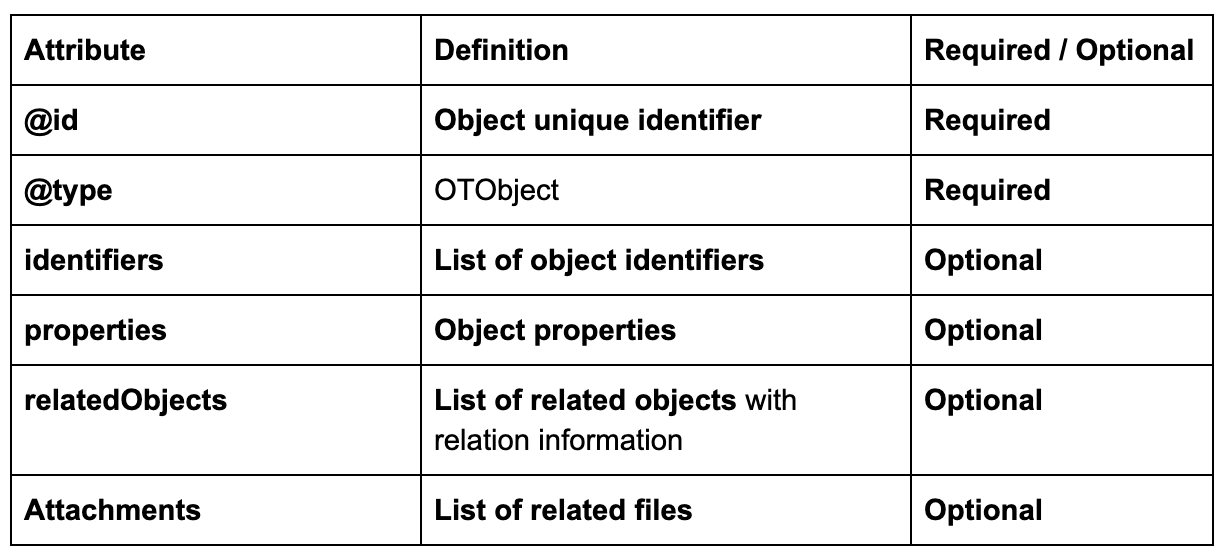
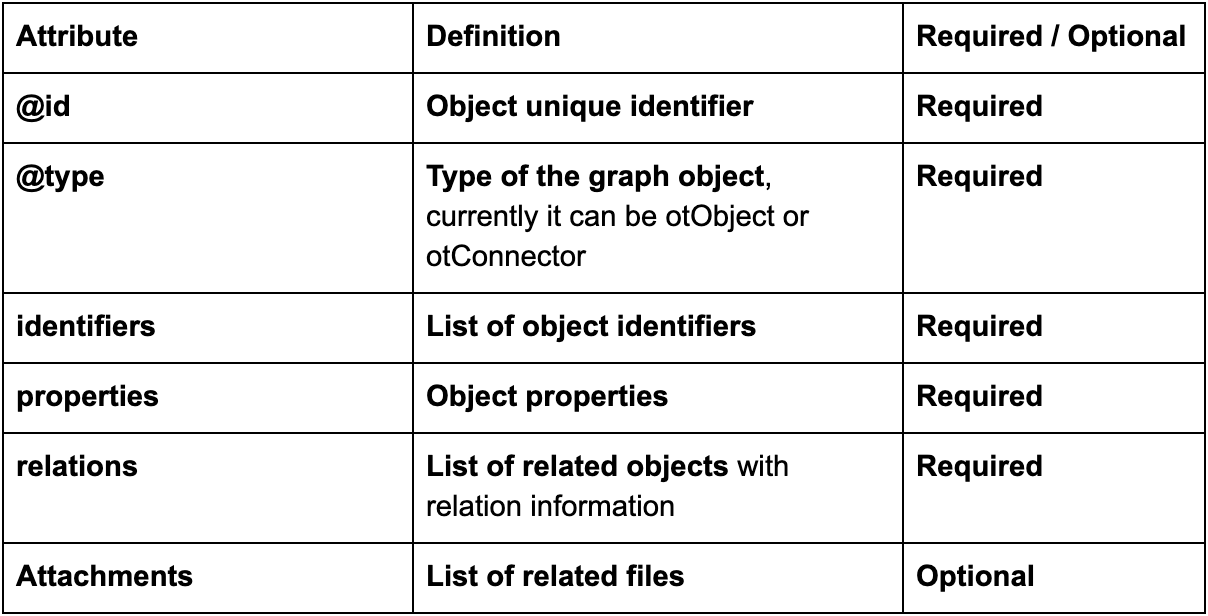
Fix errors in ot-json documentation and point api to new version

Changed region(s): [[0.0, 0.0, 1.0, 1.0]]

diff --git a/source/Data-Structure/ot-json.rst b/source/Data-Structure/ot-json.rst
@@ -186,7 +186,7 @@ Object structure
 -----------------
 
 OT-JSON dataset objects represent entities which can be interconnected with relations in a graph-like form. Every OT-JSON dataset object is required to have it’s **unique identifier** (@id),
-**type** (@type) and **signature**. Other, optional, sections include identifiers, properties, related objects, attachments.
+**type** (@type) and **signature**. Other required sections include **identifiers**, **properties** and **relations**, while optional sections include attachments.
 
 
 Attribute definitions
@@ -205,7 +205,7 @@ Attribute definitions
 
         "properties": {"...": "..."},
 
-        "relatedObjects": ["..."],
+        "relations": ["..."],
 
         "attachments": ["..."],
 
@@ -220,20 +220,20 @@ Object identifiers section
 ~~~~~~~~~~~~~~~~~~~~~~~~~~~
 
 Object identifiers section is a list of objects that represent identifier values for certain object.
-Identifier objects contain information about **identifier type**, **identifier value**, and **validation schema** that is used for validating identity.
+Identifier objects contain information about identifier **type**, identifier **value**, and optionally **validation schema** that is used for validating identity.
 
 .. code:: json
 
     {
         "identifiers": [
             {
-                "identifierType": "sgtin",
-                "identifierValue": "1234567.0001",
+                "@type": "sgtin",
+                "@value": "1234567.0001",
                 "validationSchema": "/datasetHeader/validationSchemas/urn:ot:sgtin"
             },
             {
-                "identifierType": "sgln",
-                "identifierValue": "3232317.0001",
+                "@type": "sgln",
+                "@value": "3232317.0001",
                 "validationSchema": "/datasetHeader/validationSchemas/urn:ot:sgln"
             }
         ]
@@ -268,7 +268,7 @@ and **relation type**.
     {
         "relations": [
             {
-                "@type": "OTRelation",
+                "@type": "otRelation",
                 "linkedObject": {
                     "@id": "<OBJECT ID>",
                 },
@@ -332,19 +332,38 @@ Every connector contains *connectionId* attribute, which represents value on whi
 .. code:: json
 
     {
-        "@type": "OTConnector",
-        "connectionId": "1A794-2019-01-01",
-        "expectedConnectionCreators": [
+        "@id": "urn:uuid:1230c84b-5cd6-45a7-b6b5-da7ab8b6f2dd",
+        "@type": "otConnector",
+        "identifiers": [
             {
-                "identifierType": "ERC725",
-                "identifierValue": "0x5678456976546485645749",
-                "validationSchema": "../ethereum-erc",
+                "@type": "id",
+                "@value": "1A794-2019-01-01"
+            }
+        ],
+        "properties": {
+            "expectedConnectionCreators": [
+                {
+                    "@type": "ERC725",
+                    "@value": "0x9353a6c07787170a43c4eb23f59567811336a8f3",
+                    "validationSchema": "../ethereum-erc"
+                }
+            ]
+        },
+        "relations": [
+            {
+                "@type": "otRelation",
+                "direction": "direct",
+                "linkedObject": {
+                    "@id": "urn:uuid:fe7d4949-6f34-4f4e-8a11-d048e9c0b835"
+                },
+                "properties": null,
+                "relationType": "CONNECTOR_FOR"
             }
         ]
     }
 
 
-*Example 7.* Example of attachments section
+*Example 7.* Example of a connector object
 
 OT-JSON Versions
 ----------------

diff --git a/source/introduction-to-api.rst b/source/introduction-to-api.rst
@@ -10,4 +10,4 @@ Detailed Api routes can be found at this `link`_ .
 
 -------------------------------------------------------------------------------------------------------------------
 
-.. _link: https://app.swaggerhub.com/apis-docs/otteam/ot-node-api/v2.0
+.. _link: https://app.swaggerhub.com/apis-docs/otteam/ot-node-api/v2.1
